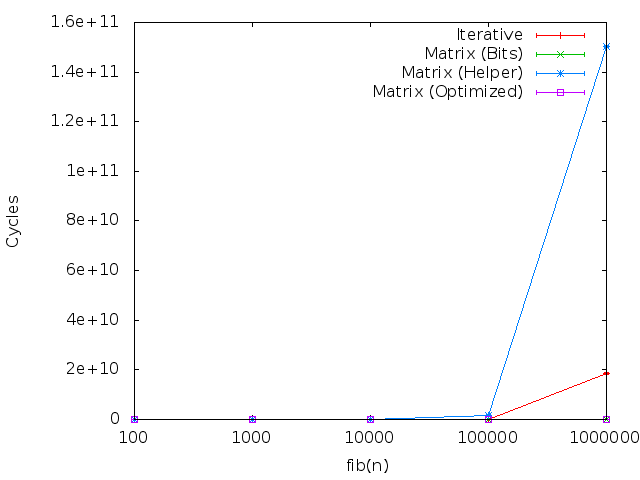
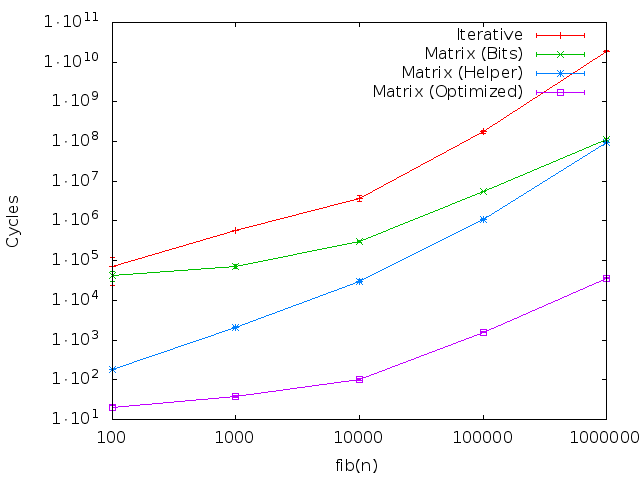
updated measuring in microsecons

diff --git a/fib.cpp b/fib.cpp
@@ -6,6 +6,8 @@
 #include <gmp.h>
 #include <gmpxx.h>
 #include <cmath>
+#include <chrono>
+#include <time.h>
 
 constexpr unsigned replications = 5;
 
@@ -31,6 +33,14 @@ struct measure {
       func(std::forward<_args>(args)...);
       uint64_t y = measure::rdtsc();
       return (y - x);
+    }
+
+    template<typename _function, typename ..._args>
+    static decltype(auto) ms(_function func, _args&&... args){
+      auto x = std::chrono::system_clock::now();
+      func(std::forward<_args>(args)...);
+      auto y = std::chrono::system_clock::now();
+      return std::chrono::duration_cast<std::chrono::microseconds>(y - x).count();
     }
 
 };
@@ -76,22 +86,16 @@ double sample_standard_deviation(T* data, uint32_t nelem) {
  * RECURSIVE
  *
  * */
-void fib1( mpz_t res, unsigned int n ) {
+mpz_class fib1( unsigned int n ) {
 
     if ( n == 0 )
-        mpz_set_ui( res, 0 );
-    else if ( n == 1 || n == 2 )
-        mpz_set_ui( res, 1 );
-    else{
-        mpz_t f1, f2;
+        return 0;
 
-        mpz_init( f1 );
-        mpz_init( f2 );
+    if ( n == 1 || n == 2 )
+        return 1;
 
-        fib1( f1, n - 1 );
-        fib1( f2, n - 2 );
-        mpz_add( res, f1, f2 );
-    }
+    return fib1( n - 1 ) + fib1( n - 2 );
+
 }
 
 
@@ -100,29 +104,27 @@ void fib1( mpz_t res, unsigned int n ) {
  * ITERATIVE
  *
  * */
-void fib2( mpz_t res, unsigned int n ){
+mpz_class fib2( unsigned int n ){
 
 
     if ( n == 0 )
-        mpz_set_ui( res, 0 );
-    else if ( n == 1 || n == 2 )
-        mpz_set_ui( res, 1 );
-    else{
+        return 0;
 
-        mpz_t x, y;
+    if ( n == 1 || n == 2 )
+        return 1;
 
-        mpz_init( x );
-        mpz_init( y );
+    mpz_class res,
+      x = 0,
+      y = 1;
 
-        mpz_set_ui( x, 0 );
-        mpz_set_ui( y, 1 );
-
-        for( unsigned int i = 1; i < n; ++i ){
-            mpz_add( res, x, y );
-            mpz_set( x, y );
-            mpz_set( y, res );
-        }
+    for( unsigned int i = 1; i < n; ++i ){
+      res = x + y;
+      x = y;
+      y = res;
     }
+
+    return res;
+
 }
 
 /**
@@ -238,9 +240,7 @@ mpz_class fib5( int n ){
 
 int main(){
 
-    uint64_t samples[replications];
-    mpz_t res;
-    mpz_init(res);
+    double samples[replications];
 
     std::ofstream _fib1 ("fib1.dat");
     std::ofstream _fib2 ("fib2.dat");
@@ -257,8 +257,8 @@ int main(){
    for( unsigned int i = 100; i <= 1000000; i *= 10 ){
     _fib2 << "fibonacci_iterative\t" << i << "\t";
         for( unsigned int sampleRun = 0; sampleRun < replications; ++sampleRun ){
-            uint64_t time = measure::cycles([&res,&i](){
-                fib2(res, i);
+            double time = measure::cycles([&i](){
+                fib2(i);
             });
             samples[sampleRun] = time;
         }
@@ -274,7 +274,7 @@ int main(){
    for( unsigned int i = 100; i <= 1000000; i *= 10 ){
     _fib3 << "fibonacci_matrix_bitmask\t" << i << "\t";
         for( unsigned int sampleRun = 0; sampleRun < replications; ++sampleRun ){
-            uint64_t time = measure::cycles([&i](){
+            double time = measure::cycles([&i](){
                 fib3(i);
             });
             samples[sampleRun] = time;
@@ -291,7 +291,7 @@ int main(){
    for( unsigned int i = 100; i <= 1000000; i *= 10 ){
     _fib4 << "fibonacci_matrix_helpermask\t" << i << "\t";
         for( unsigned int sampleRun = 0; sampleRun < replications; ++sampleRun ){
-            uint64_t time = measure::cycles([&i](){
+            double time = measure::ms([&i](){
                 fib4(i);
             });
             samples[sampleRun] = time;
@@ -308,7 +308,7 @@ int main(){
    for( unsigned int i = 100; i <= 1000000; i *= 10 ){
     _fib5 << "fibonacci_matrix_opzimized_helper\t" << i << "\t";
         for( unsigned int sampleRun = 0; sampleRun < replications; ++sampleRun ){
-            uint64_t time = measure::cycles([&i](){
+            auto time = measure::ms([&i](){
                 fib5(i);
             });
             samples[sampleRun] = time;
@@ -318,22 +318,22 @@ int main(){
     }
 
 
-/**
- *
- * RECURSIVE (STACK TOO SMALL FOR FIB(100))
- *
- * */
-   // for( unsigned int i = 100; i <= 1000000; i *= 10 ){
-   //  std::cout << "fibonacci recursive\t" << i << "\t";
-   //      for( unsigned int sampleRun = 0; sampleRun < replications; ++sampleRun ){
-   //          uint64_t time = measure::cycles([&res,&i](){
-   //              fib1(res, i);
-   //          });
-   //          samples[sampleRun] = time;
-   //      }
-   //      std::cout << "\ttime mean\t" << arithmetic_mean(samples, replications);
-   //      std::cout << "\tdeviation\t" << sample_standard_deviation(samples, replications) << std::endl;
-   //  }
+// /**
+//  *
+//  * RECURSIVE (STACK TOO SMALL FOR FIB(100))
+//  *
+//  * */
+//    // for( unsigned int i = 100; i <= 1000000; i *= 10 ){
+//    //  std::cout << "fibonacci recursive\t" << i << "\t";
+//    //      for( unsigned int sampleRun = 0; sampleRun < replications; ++sampleRun ){
+//    //          uint64_t time = measure::cycles([&res,&i](){
+//    //              fib1(res, i);
+//    //          });
+//    //          samples[sampleRun] = time;
+//    //      }
+//    //      std::cout << "\ttime mean\t" << arithmetic_mean(samples, replications);
+//    //      std::cout << "\tdeviation\t" << sample_standard_deviation(samples, replications) << std::endl;
+//    //  }
 
 
     _fib1.close();
